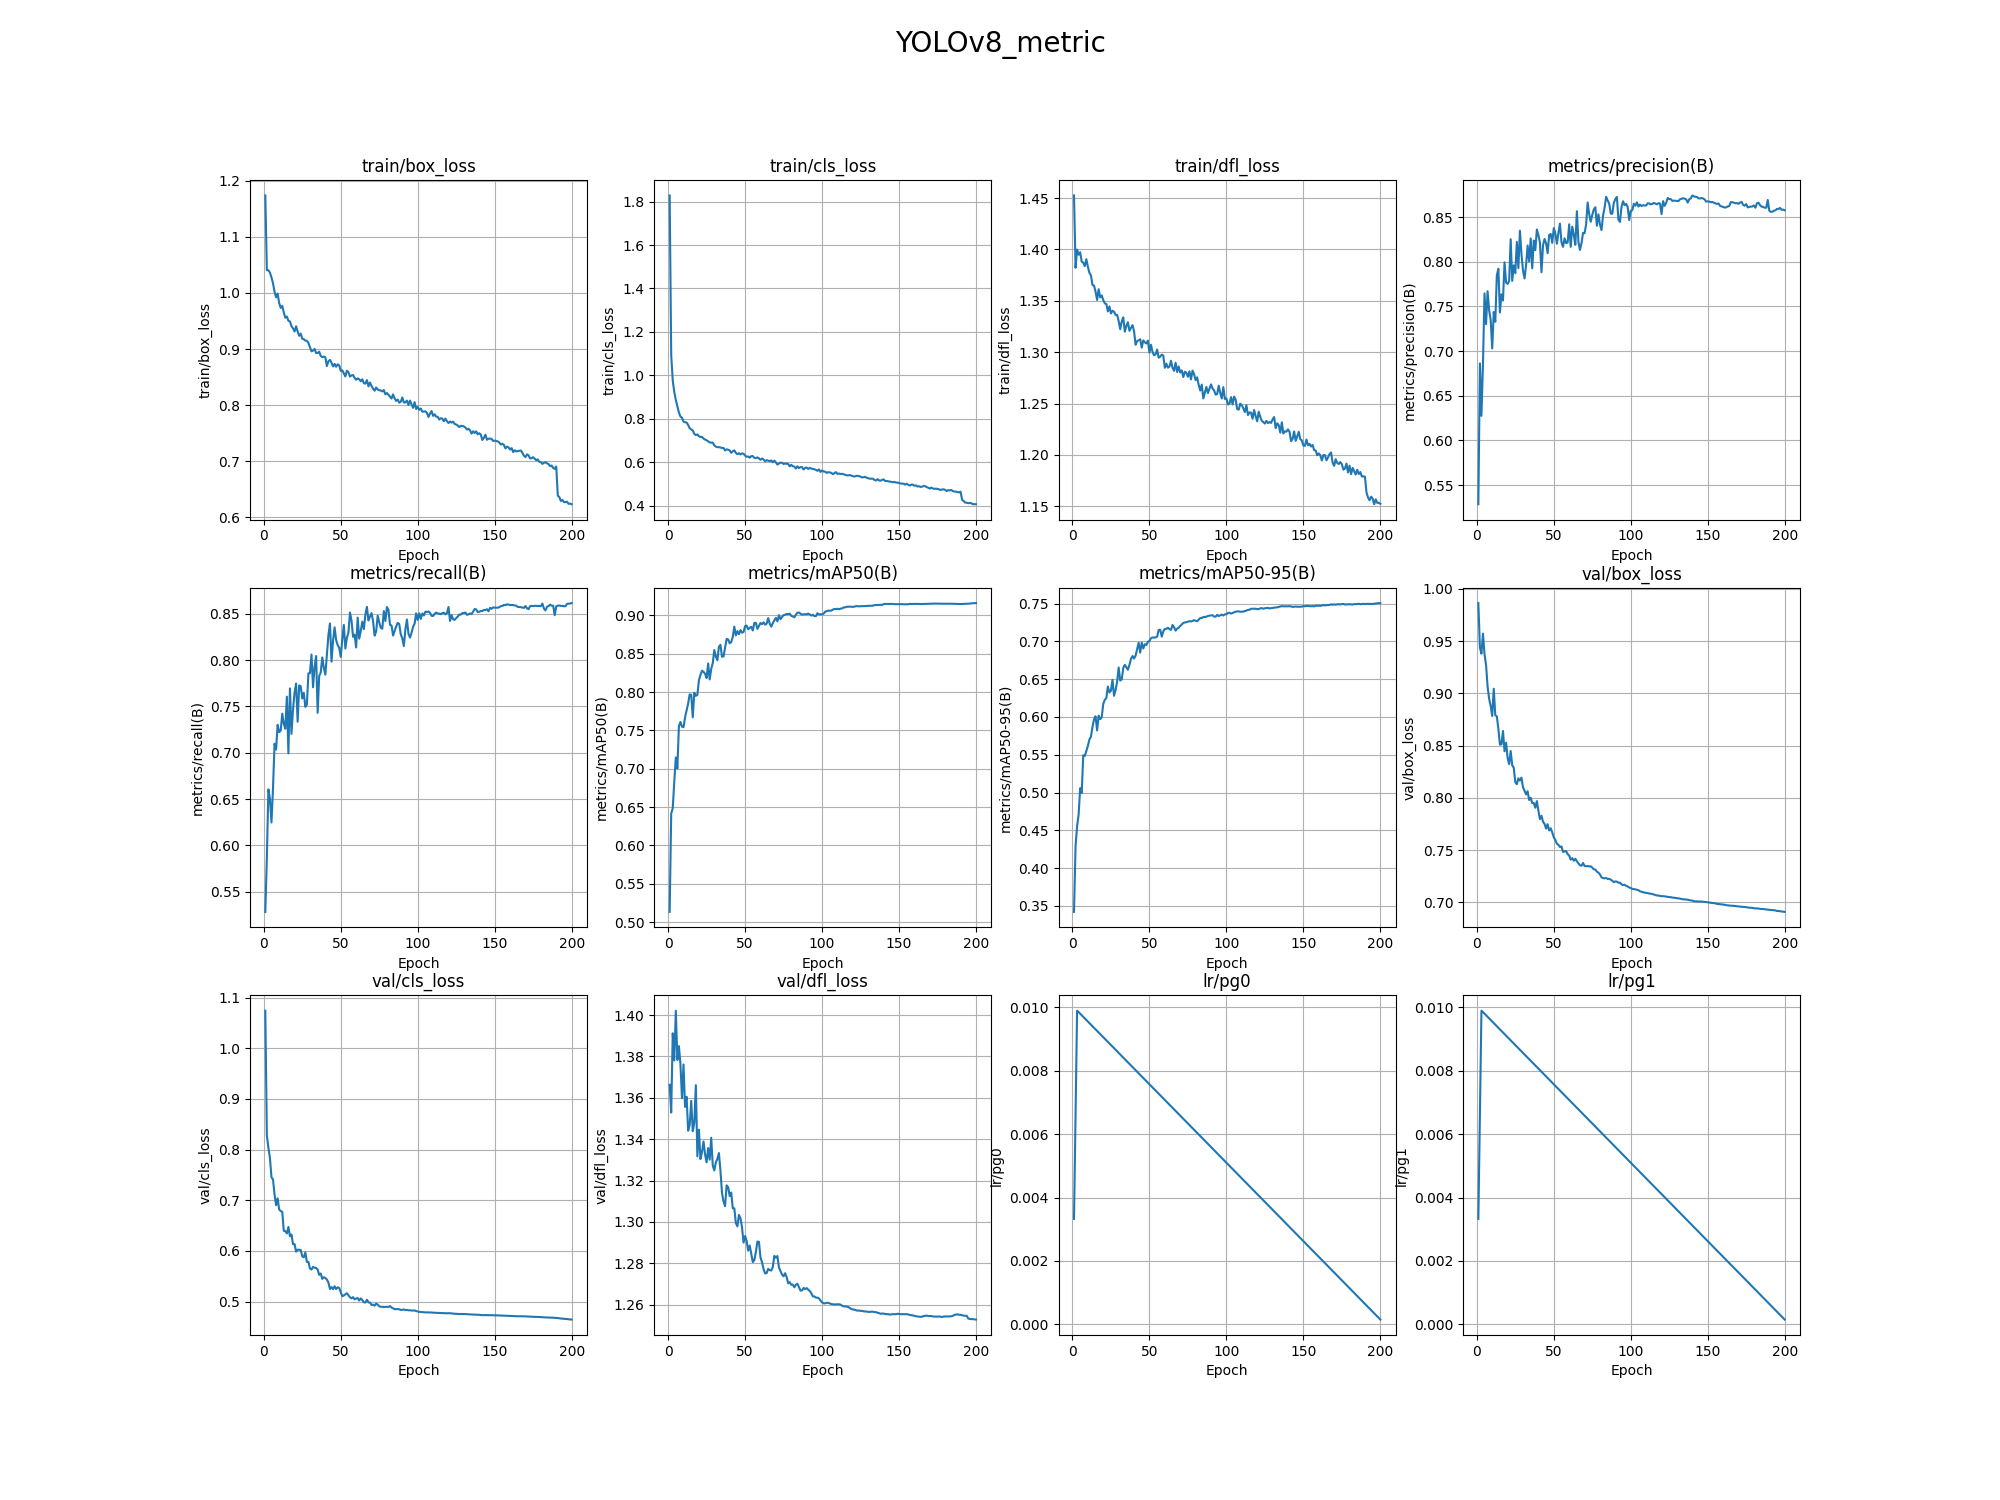
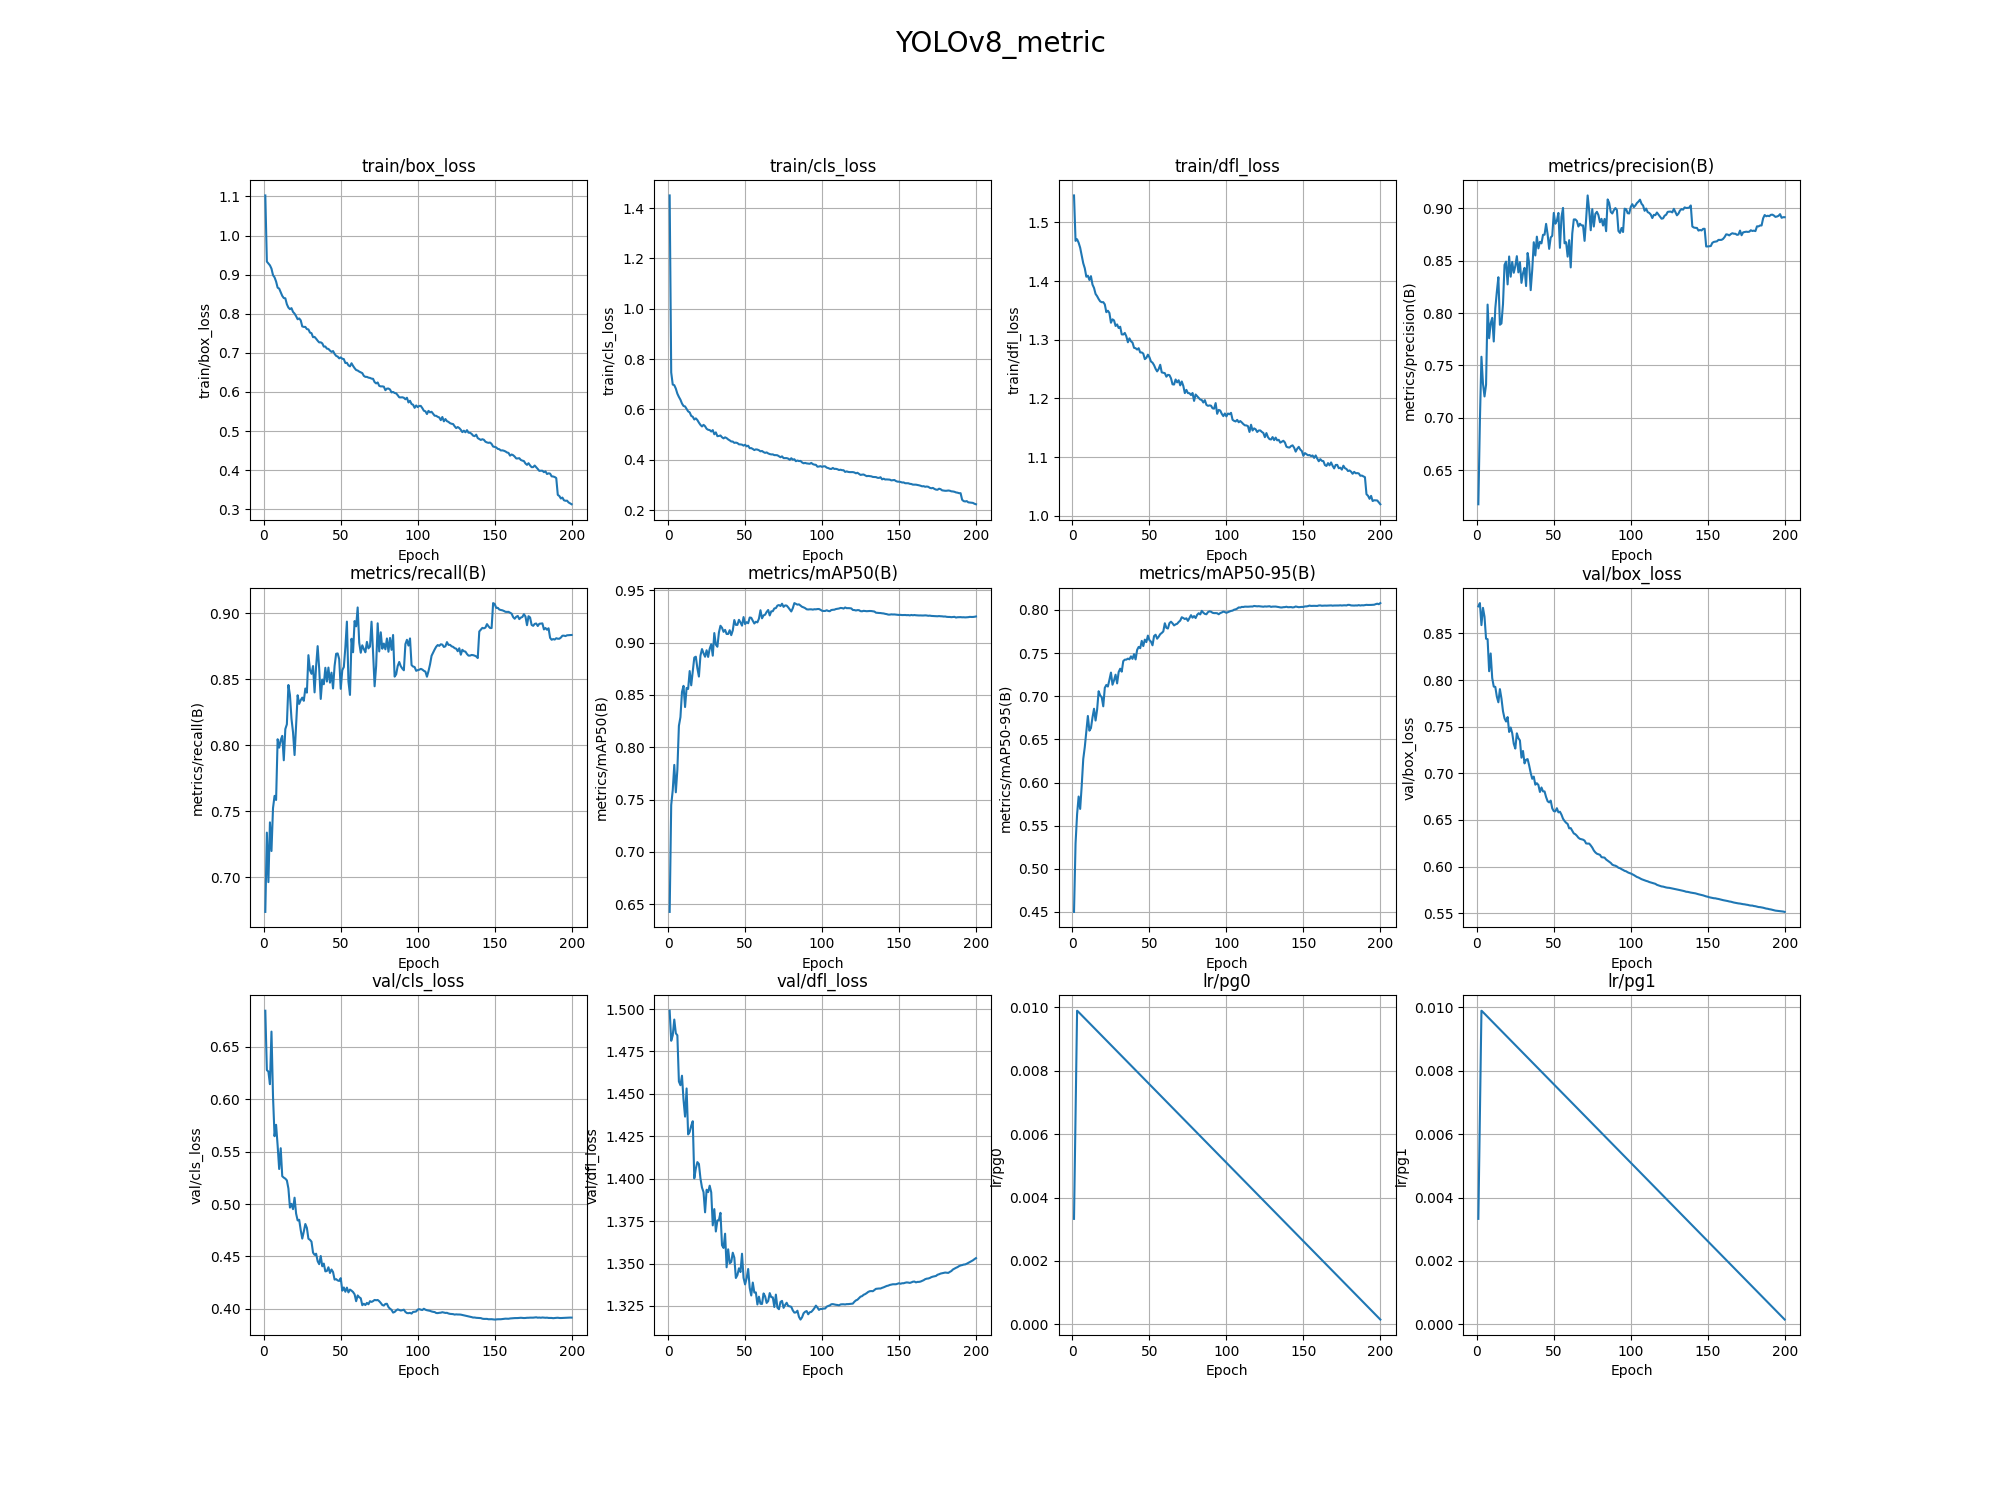
feat: 更新YOLOv8模型配置文件和训练脚本

diff --git a/train.py b/train.py
@@ -2,10 +2,10 @@ from ultralytics import YOLO
 
 if __name__ == "__main__":
     # 加载预训练模型
-    model = YOLO("./ultralytics/cfg/models/v8/yolov8-obb-attention-cot.yaml").load('./yolov8n-obb.pt')
+    model = YOLO("./ultralytics/cfg/models/v8/yolov8-attention-se.yaml").load('./yolov8n.pt')
     # 开始训练
     model.train(
-        data="/mnt/g/WorkSpace/dataset/yolo-oob/dataset-radar/data.yaml",
+        data="/mnt/g/WorkSpace/dataset/YOLOv8-loopy/dataset/loopy.yaml",
         epochs=200,
         imgsz=640,
         device="0",
